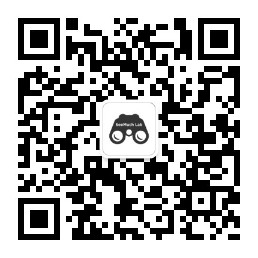
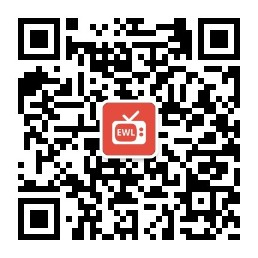
0706

diff --git a/about-us.html b/about-us.html
@@ -30,6 +30,41 @@
     <!--main-->
     <div id="seven" class="container-fluid">
       <div class="w3-container w3-content w3-padding-64" style="max-width:600px">
+        <h2 class="text-center">关于我们</h2>
+        <br>
+        <div class="text-center">
+          <img src="img/about/logo.jpg" alt="logo" style="width:100px">
+        </div>
+        <br>
+        <div class="w3-justify">
+          <p>
+            我们是《多看看实验室》一支 [有组织没纪律] 的国际化团队，主要成员有：「FeiFei｜PG｜林子｜阿超｜金姐」，各自行走在新加坡🇸🇬马来西亚🇲🇾泰国🇹🇭英国🇬🇧加拿大🇨🇦美国🇺🇸台湾🇨🇳上海等不同地方；没事一起聊聊这些地方的社会生活、吃喝玩乐、留学移民和其他攻略指南。有时候，我们也会幻想一下诗和远方💰，假装忘了眼前的苟且💦～
+          </p>
+          <br><br>
+          <p>
+            让我们一起看遍人间烟火，还有诗和远方！
+          </p>
+          <br><br>
+          <a href="https://www.youtube.com/@east-west-life">YouTube</a>
+          <br>
+          <a href="https://www.facebook.com/east2west2life">Facebook</a>
+          <br>
+          <a href="https://www.linkedin.com/company/east-west-life/">Linkedin</a>
+          <br>
+          <a href="https://space.bilibili.com/456297680">Bilibili</a>
+          <br>
+          <a href="https://www.zhihu.com/people/jiechao-cheng">知乎</a>
+          <br>
+          <a href="https://www.weibo.com/seemuch">新浪微博</a>
+          <br>
+          <a href="https://www.toutiao.com/c/user/111042348037/#mid=1624183846189060">今日头条</a>
+          <br>
+          <a href="https://www.xiaohongshu.com/user/profile/5d1dc4da000000001201a282?xhsshare=CopyLink&appuid=5d1dc4da000000001201a282&apptime=1576370943">小红书</a>
+          <br>
+          
+        </div>
+        <br><br>
+
         <h2 class="text-center">联系方式</h2>
         <p class="w3-center">有任何意见、建议和各种问题，欢迎随时联系我们！</p>
         <br><br>
@@ -59,41 +94,6 @@
               </div>
             </form>
           </div>
-        </div>
-        <br><br>
-
-        <h1 class="text-center">关注我们</h1>
-        <br>
-        <div class="text-center">
-          <img src="img/about/logo.jpg" alt="logo" style="width:100px">
-        </div>
-        <br>
-        <div class="w3-justify">
-          <p>
-            我们是《多看看实验室》一支 [有组织没纪律] 的国际化团队，主要成员有：「FeiFei｜PG｜林子｜阿超｜金姐」，各自行走在新加坡🇸🇬马来西亚🇲🇾泰国🇹🇭英国🇬🇧加拿大🇨🇦美国🇺🇸台湾🇨🇳上海等不同地方；没事一起聊聊这些地方的社会生活、吃喝玩乐、留学移民和其他攻略指南。有时候，我们也会幻想一下诗和远方💰，假装忘了眼前的苟且💦～
-          </p>
-          <br><br>
-          <p>
-            让我们一起看遍人间烟火，还有诗和远方！
-          </p>
-          <br><br>
-          <a href="https://mp.weixin.qq.com/mp/qrcode?scene=10000005&size=102&__biz=MzA4MjcwNjMwNA==&mid=2658505606&idx=1&sn=59e0bf7a447ea91ad5f2b1d1830ea408&send_time=">微信公众号</a>
-          <br>
-          <a href="https://www.zhihu.com/people/jiechao-cheng">知乎</a>
-          <br>
-          <a href="https://www.weibo.com/seemuch">新浪微博</a>
-          <br>
-          <a href="https://www.toutiao.com/c/user/111042348037/#mid=1624183846189060">今日头条</a>
-          <br>
-          <a href="https://www.facebook.com/seemuch.lab/">Facebook</a>
-          <br>
-          <a href="https://space.bilibili.com/456297680">Bilibili</a>
-          <br>
-          <a href="https://www.youtube.com/channel/UCTymgNLoKQd0alvPXUz-g5g">YouTube</a>
-          <br>
-          <a href="https://www.xiaohongshu.com/user/profile/5d1dc4da000000001201a282?xhsshare=CopyLink&appuid=5d1dc4da000000001201a282&apptime=1576370943">小红书</a>
-          <br>
-          <a href="https://www.linkedin.com/company/seemuch/">Linkedin</a>
         </div>
         <br><br>
 

diff --git a/components/footer-3.js b/components/footer-3.js
@@ -29,7 +29,7 @@ footerTemplate.innerHTML = `
           <div class="col-sm-6">
           </div>
           <div class="col-sm-6 text-center">
-            <img src="../../img/about/wechat-bm.jpg" style="width:60px">
+            <img src="../../img/about/wechat.jpg" style="width:60px">
           </div>
         </div>
       </div>

diff --git a/components/footer-2.js b/components/footer-2.js
@@ -29,7 +29,7 @@ footerTemplate.innerHTML = `
           <div class="col-sm-6">
           </div>
           <div class="col-sm-6 text-center">
-            <img src="../img/about/wechat-bm.jpg" style="width:60px">
+            <img src="../img/about/wechat.jpg" style="width:60px">
           </div>
         </div>
       </div>

diff --git a/components/footer.js b/components/footer.js
@@ -26,7 +26,7 @@ footerTemplate.innerHTML = `
           <div class="col-sm-5">
           </div>
           <div class="col-sm-7 text-center">
-            <img src="img/about/wechat-bm.jpg" style="width:60px">
+            <img src="img/about/wechat.jpg" style="width:60px">
           </div>
         </div>
       </div>
